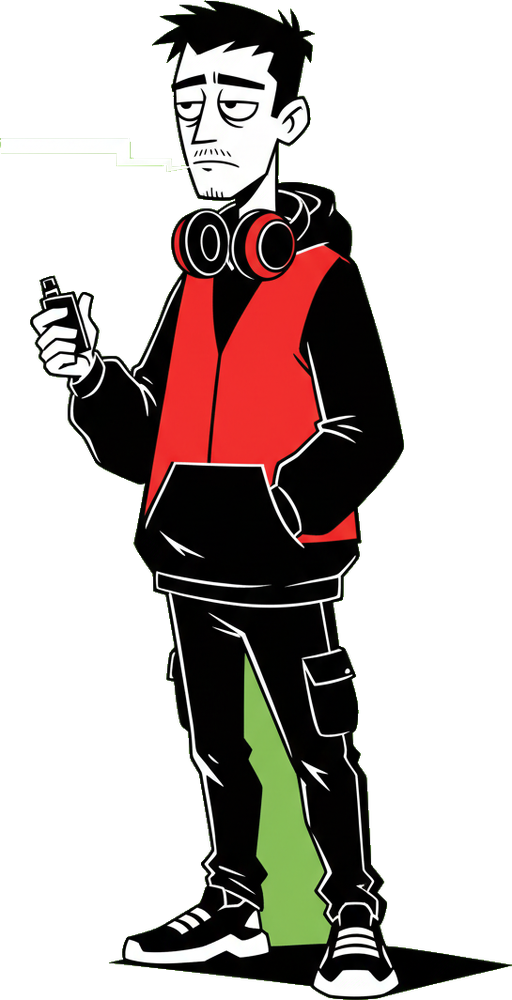
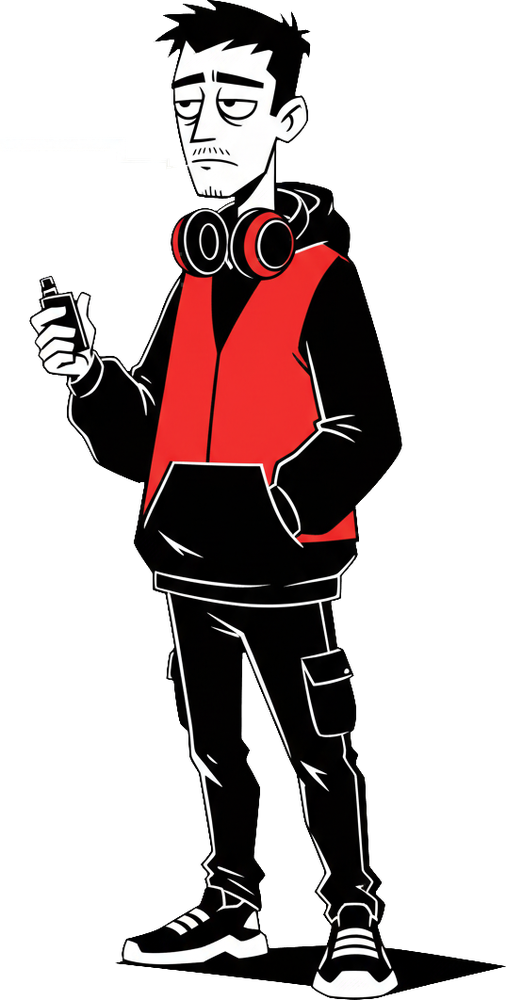
Re-key sprites: global green chroma key + despill + edge erosion (art/key2.py); zero residual green

diff --git a/art/key2.py b/art/key2.py
@@ -1,0 +1,79 @@
+#!/usr/bin/env python3
+"""Backdrop removal v2.
+
+The art is a locked three-colour palette (white/black/red), so ANY green pixel is
+either backdrop or spill, wherever it sits. So:
+  1. flood-fill the border backdrop (handles white voids as well as green screens)
+  2. global soft chroma key on greenness, so enclosed pockets go too
+  3. despill: clamp the green channel on every surviving pixel
+  4. erode a hair of alpha to eat the last anti-aliased fringe
+"""
+from PIL import Image, ImageFilter
+from collections import deque, Counter
+import sys, os
+
+FULL, SOFT = 34, 8          # greenness thresholds
+
+def greenness(r, g, b):
+    return g - max(r, b)
+
+def key(path, out):
+    im = Image.open(path).convert('RGBA')
+    w, h = im.size
+    px = im.load()
+
+    # --- 1. border flood fill (any backdrop colour) ---
+    ring = [px[x,0] for x in range(0,w,3)] + [px[x,h-1] for x in range(0,w,3)] \
+         + [px[0,y] for y in range(0,h,3)] + [px[w-1,y] for y in range(0,h,3)]
+    bg = Counter([(r//12*12, g//12*12, b//12*12) for r,g,b,a in ring]).most_common(1)[0][0]
+    tol = 40
+    def match(c):
+        return abs(c[0]-bg[0])<=tol and abs(c[1]-bg[1])<=tol and abs(c[2]-bg[2])<=tol
+    seen = bytearray(w*h); q = deque()
+    for x in range(w):
+        for y in (0, h-1):
+            if not seen[y*w+x] and match(px[x,y]): seen[y*w+x]=1; q.append((x,y))
+    for y in range(h):
+        for x in (0, w-1):
+            if not seen[y*w+x] and match(px[x,y]): seen[y*w+x]=1; q.append((x,y))
+    while q:
+        x,y = q.popleft()
+        for dx,dy in ((1,0),(-1,0),(0,1),(0,-1)):
+            nx,ny = x+dx, y+dy
+            if 0<=nx<w and 0<=ny<h and not seen[ny*w+nx] and match(px[nx,ny]):
+                seen[ny*w+nx]=1; q.append((nx,ny))
+
+    # --- 2 + 3. global soft green key and despill ---
+    killed = 0
+    for y in range(h):
+        row = y*w
+        for x in range(w):
+            r,g,b,a = px[x,y]
+            if seen[row+x]:
+                px[x,y] = (0,0,0,0); killed += 1
+                continue
+            gn = greenness(r,g,b)
+            if gn >= FULL:
+                px[x,y] = (0,0,0,0); killed += 1
+            elif gn > SOFT:
+                # partial transparency across the fringe, plus full despill
+                frac = (gn - SOFT) / (FULL - SOFT)
+                na = int(a * (1 - frac))
+                m = max(r,b)
+                px[x,y] = (r, m, b, na)
+            elif gn > 0:
+                px[x,y] = (r, max(r,b), b, a)
+
+    # --- 4. shave one pixel of alpha off the silhouette edge ---
+    r_,g_,b_,al = im.split()
+    al = al.filter(ImageFilter.MinFilter(3))
+    im = Image.merge('RGBA', (r_,g_,b_,al))
+
+    bbox = im.getbbox()
+    if bbox: im = im.crop(bbox)
+    im.save(out)
+    return round(100*killed/(w*h),1), im.size
+
+for n in sys.argv[1:]:
+    pct, size = key(f'art/out/{n}.png', f'docs/assets/{n}.png')
+    print(f'{n}: removed {pct}% -> {size}')
